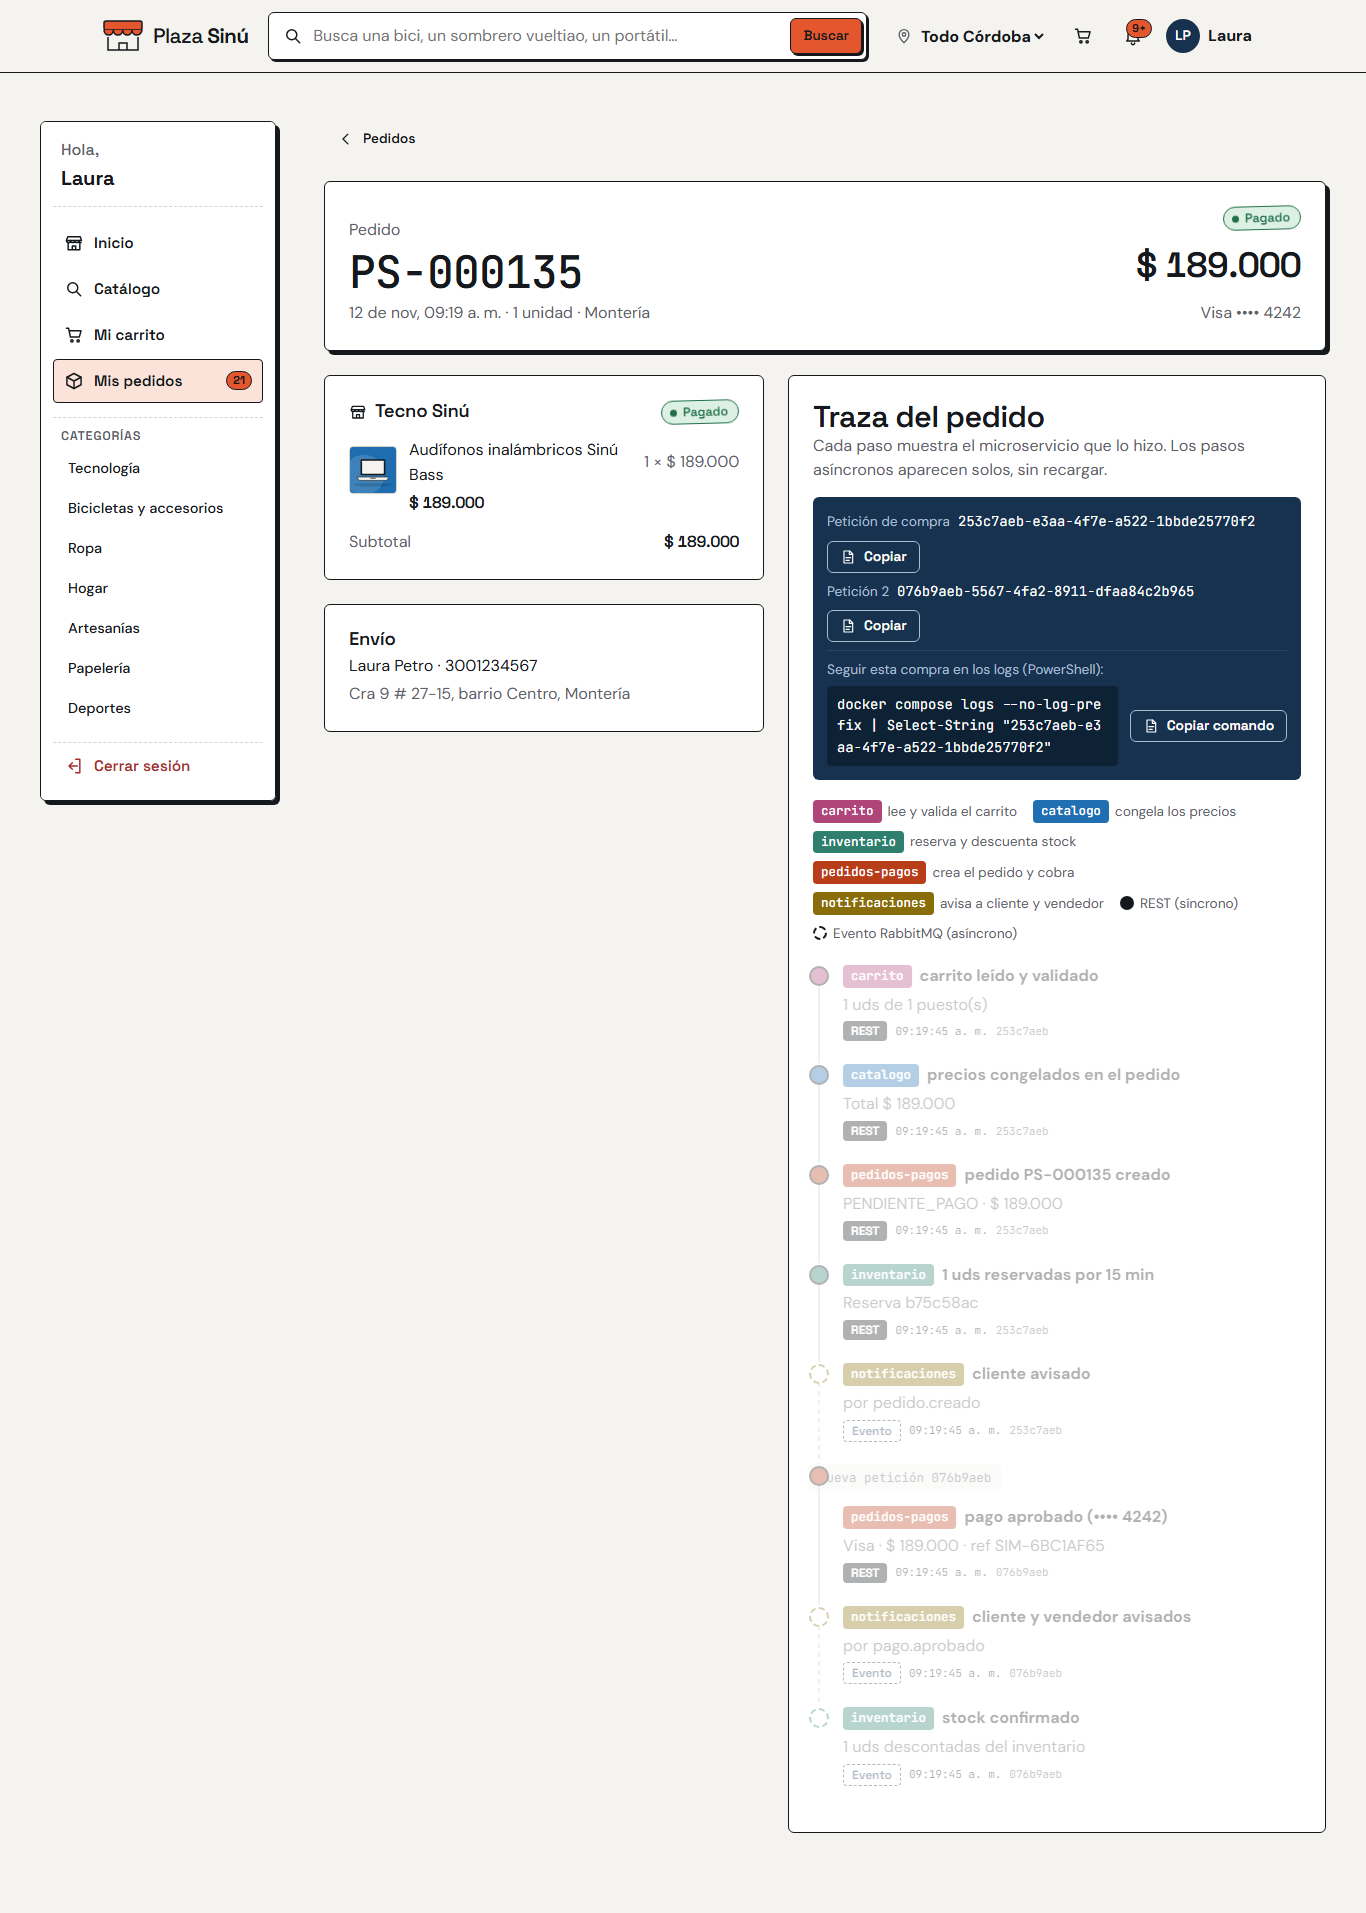
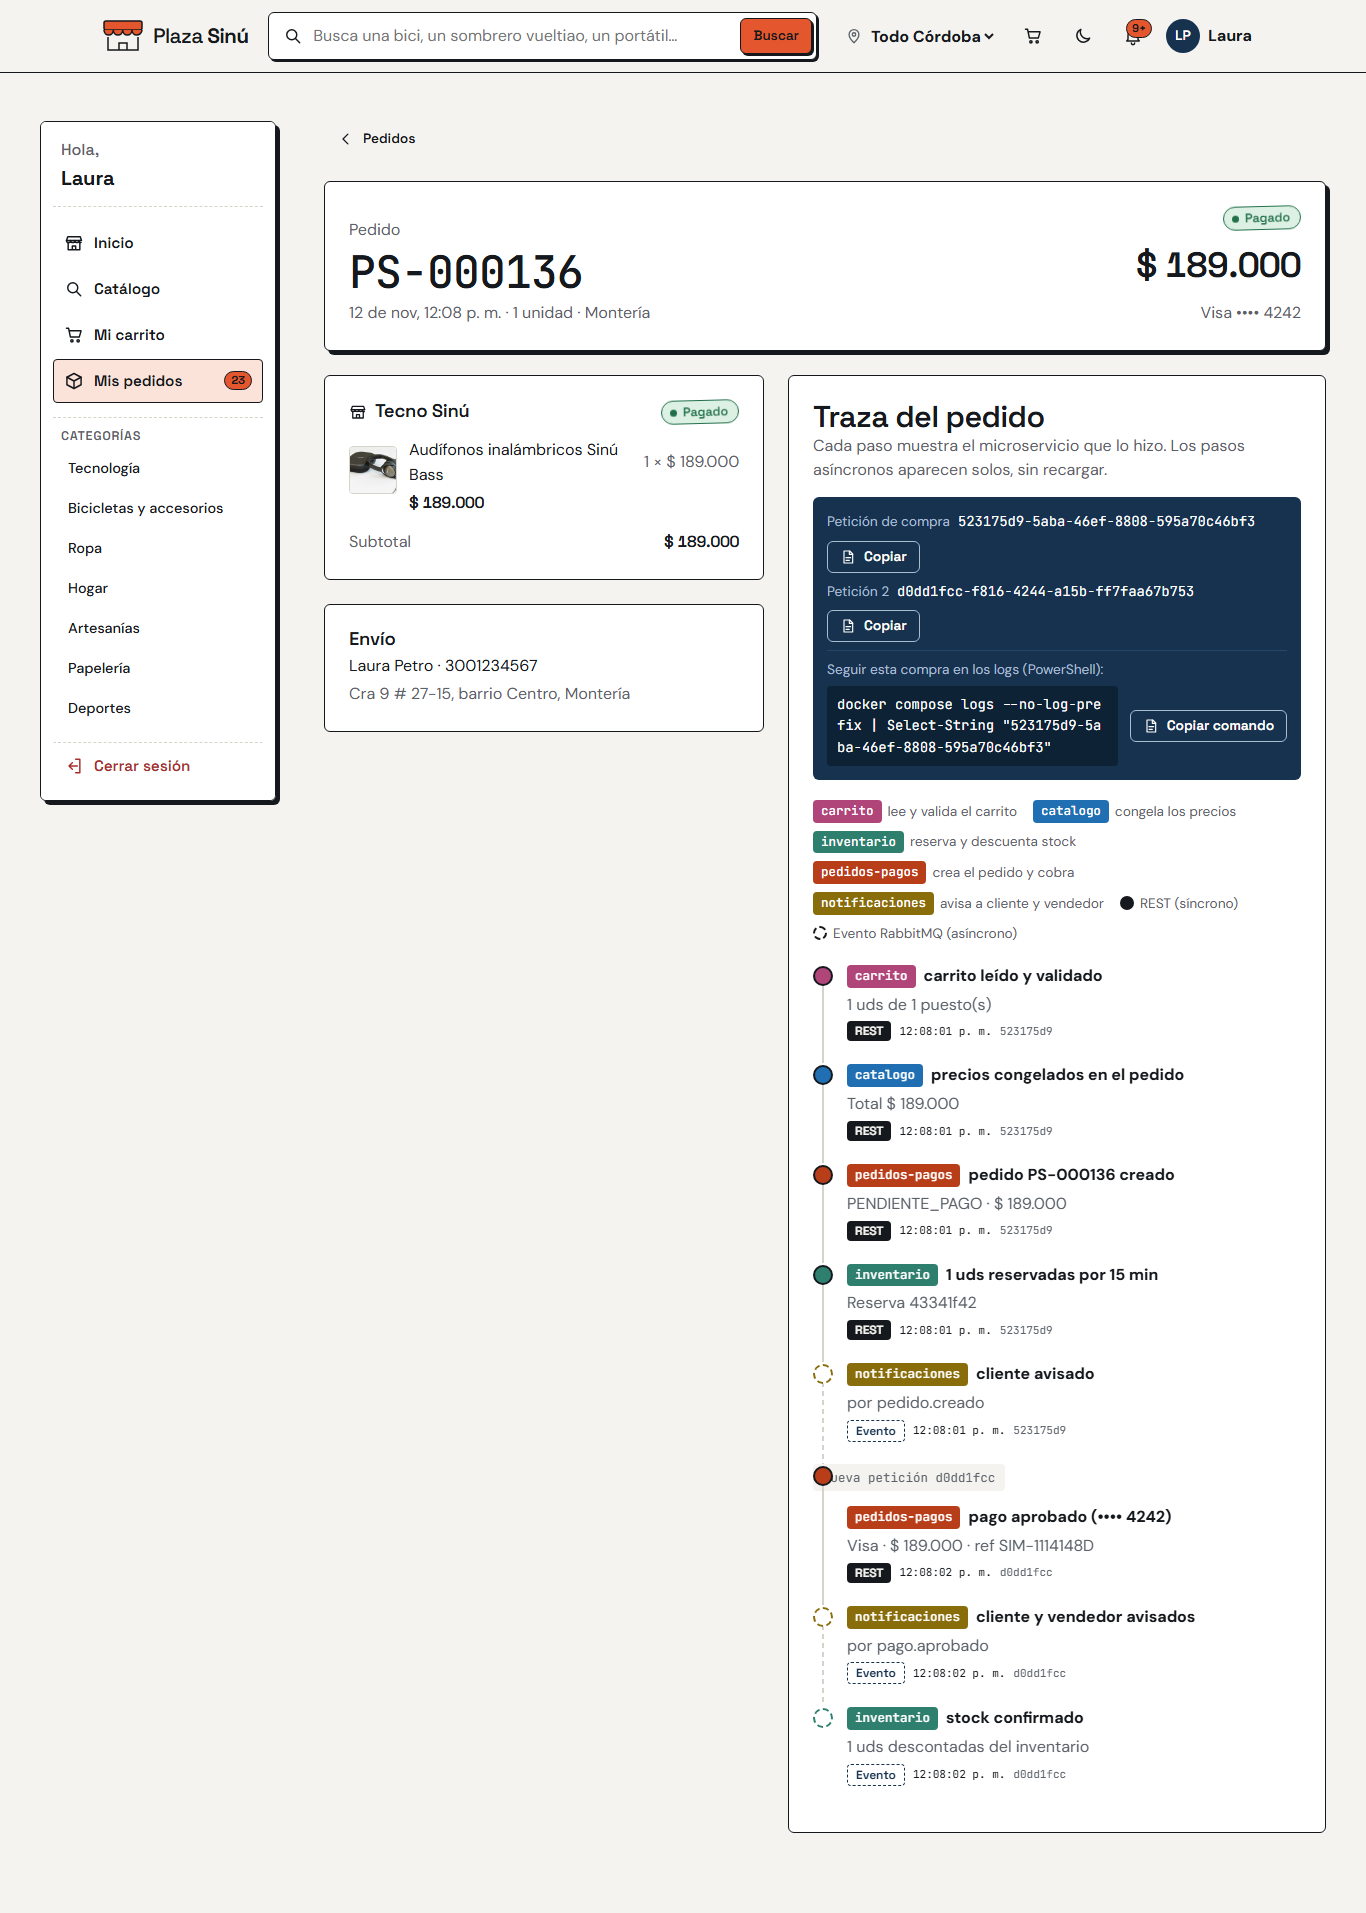
docs: evidencias, manual, plan de pruebas y matriz con registro en 3 pasos, modo oscuro y fotos

diff --git a/docs/pruebas/plan-de-pruebas.md b/docs/pruebas/plan-de-pruebas.md
@@ -1,6 +1,6 @@
 # Plan de pruebas — Plaza Sinú
 
-Última ejecución completa: **12/11/2026**, con la solución levantada desde cero (`docker compose down -v` y `docker compose up --build`, 17 contenedores `healthy`).
+Última ejecución completa: **12/11/2026** (actualizada con el registro en 3 pasos, el modo oscuro y las fotos de productos), con la solución levantada desde cero (`docker compose down -v` y `docker compose up --build`, 17 contenedores `healthy`).
 
 ## 1. Objetivo
 
@@ -76,14 +76,14 @@ docker stop puente-inventario
 | Servicio | Pruebas | Resultado | Cobertura de líneas |
 |---|---|---|---|
 | gateway | 7 | 7/7 ✅ | 53,3 % |
-| usuarios | 15 | 15/15 ✅ | 75,7 % |
+| usuarios | 17 | 17/17 ✅ | 76,7 % |
 | vendedores | 14 | 14/14 ✅ | 90,4 % |
-| catalogo | 23 | 23/23 ✅ | 85,2 % |
+| catalogo | 24 | 24/24 ✅ | 85,8 % |
 | inventario | 18 | 18/18 ✅ (incluye concurrencia con Postgres real) | 64,0 % |
 | carrito | 19 | 19/19 ✅ | 86,3 % |
 | pedidos-pagos | 28 | 28/28 ✅ | 85,5 % |
 | notificaciones | 20 | 20/20 ✅ | 74,3 % |
-| **Total** | **144** | **144/144 ✅** | |
+| **Total** | **147** | **147/147 ✅** | |
 
 La cobertura del gateway es más baja porque el proxy hacia los servicios y el monitor de RabbitMQ se prueban de punta a punta en el E2E, no con dobles.
 
@@ -93,7 +93,7 @@ La cobertura del gateway es más baja porque el proxy hacia los servicios y el m
 |---|---|---|
 | E2E del flujo obligatorio | **24/24 ✅** | [`resultados-e2e.md`](resultados-e2e.md) |
 | Resiliencia | **11/11 ✅** | [`resultados-resiliencia.md`](resultados-resiliencia.md) |
-| UI con Playwright | **1/1 ✅** (9 pasos) | [`docs/evidencias/`](../evidencias/) |
+| UI con Playwright | **1/1 ✅** (11 pasos, 29 capturas) | [`docs/evidencias/`](../evidencias/) |
 
 ## 7. Tabla de casos
 
@@ -140,3 +140,8 @@ La cobertura del gateway es más baja porque el proxy hacia los servicios y el m
 | DOC-01 | Swagger agregado del gateway | gateway | `/docs` con los 7 servicios | ✅ | [17](../evidencias/17-swagger-gateway.png) |
 | MQ-01 | Colas durables con DLQ | RabbitMQ | 5 colas + 5 DLQ | ✅ | [18](../evidencias/18-rabbitmq-colas.png) |
 | DOC-02 | 17 contenedores sanos | Docker | Todos `healthy` | ✅ | [docker-ps.txt](../evidencias/docker-ps.txt) |
+| UI-05 | Registro en 3 pasos con validación por paso | web, usuarios | Correo, contraseña, datos personales y dirección; 409 si el correo ya existe | ✅ | [23](../evidencias/23-registro-paso1-cuenta.png) · [24](../evidencias/24-registro-paso2-datos.png) · [25](../evidencias/25-registro-paso3-resumen.png) · [12](../evidencias/12-error-409-correo-registrado.png) |
+| UI-06 | Modo oscuro desde la barra superior | web | Cambia el tema y lo recuerda | ✅ | [26](../evidencias/26-modo-oscuro-catalogo.png) · [29](../evidencias/29-modo-oscuro-mi-puesto.png) |
+| UI-07 | Fotos reales de productos | catalogo, web | La foto se sirve por `GET /productos/:id/foto.jpg` | ✅ | [27](../evidencias/27-catalogo-fotos-artesanias.png) · [28](../evidencias/28-producto-foto-real.png) |
+| API-01 | Registro con documento, nacimiento y dirección; menor de edad → 422 | usuarios | 201 con datos guardados / 422 | ✅ | `servicios/usuarios/tests/api.test.js` |
+| API-02 | Foto de producto; id inválido o sin foto → 404 | catalogo | 200 `image/jpeg` / 404 | ✅ | `servicios/catalogo/tests/api.test.js` |

diff --git a/docs/manual-instalacion-usuario.md b/docs/manual-instalacion-usuario.md
@@ -65,6 +65,20 @@ La aplicación tiene tres zonas:
 
 ### 2.1 Cliente
 
+#### Crear una cuenta
+
+En **Crea tu cuenta** el registro va en tres pasos, con una barra de progreso:
+
+1. **Tu cuenta:** elige *Quiero comprar* o *Quiero vender*, escribe tu correo y una contraseña. Un medidor muestra qué tan segura es, y debes repetirla.
+2. **Tus datos:** nombres, apellidos, tipo y número de documento, fecha de nacimiento (debes ser mayor de edad) y celular.
+3. **Dónde estás:** ciudad y dirección de entrega (o de tu negocio, si vendes). Revisa el resumen, acepta los términos y pulsa **Crear mi cuenta**.
+
+Cada paso revisa los datos antes de seguir y marca el campo que falta. Si el correo ya existe, vuelve al primer paso y lo señala.
+
+![Registro, paso 1](evidencias/23-registro-paso1-cuenta.png)
+![Registro, paso 2](evidencias/24-registro-paso2-datos.png)
+![Registro, paso 3](evidencias/25-registro-paso3-resumen.png)
+
 #### Iniciar sesión
 
 En **Entrar** escribe tu correo y contraseña. Si te equivocas de clave, la aplicación lo dice sin borrar el formulario.
@@ -112,7 +126,7 @@ La campana de la barra superior se actualiza **en vivo**: pedido recibido, pago 
 
 #### Solicitar un puesto
 
-1. En **Crea tu cuenta** elige **Vender en mi puesto**.
+1. En **Crea tu cuenta** elige **Quiero vender** en el primer paso.
 2. Entra a **Mi Puesto**: aparece el formulario **Abre tu puesto en Plaza Sinú**: nombre del puesto, qué vendes, categoría principal, ciudad, NIT y teléfono (opcionales) y color del toldo, con una vista previa del puesto.
 3. Pulsa **Enviar solicitud**. El puesto queda **En revisión** hasta que el administrador lo apruebe. Puedes probar este estado con `pendiente@plazasinu.co`.
 
@@ -160,11 +174,23 @@ Los botones **Swagger** y **RabbitMQ** de la cabecera abren la documentación de
 ![Métricas](evidencias/15-metricas.png)
 ![Vendedores](evidencias/16-admin-vendedores.png)
 
-### 2.4 Modo sustentación
+### 2.4 Modo oscuro
+
+El botón de luna de la barra superior cambia toda la aplicación a colores oscuros, y el de sol la devuelve a modo claro. La elección se recuerda en ese navegador. Si nunca se ha tocado, la aplicación sigue el modo del computador o del celular.
+
+![Modo oscuro](evidencias/26-modo-oscuro-catalogo.png)
+
+### 2.5 Fotos de productos
+
+Algunos productos de demostración tienen fotos reales (sombreros vueltiaos, mochila, hamacas, bicicletas, balón, tenis, entre otros); los demás usan una ilustración. Los créditos de cada foto están en [creditos-imagenes.md](creditos-imagenes.md).
+
+![Fotos de artesanías](evidencias/27-catalogo-fotos-artesanias.png)
+
+### 2.6 Modo sustentación
 
 Abre cualquier página con `?demo=1` (o entra como admin) y aparece un panel flotante con los 7 pasos del flujo obligatorio. Cada paso se marca solo cuando el gateway ve ocurrir el evento o la petición correspondiente.
 
-### 2.5 Mensajes de error
+### 2.7 Mensajes de error
 
 | Mensaje | Qué significa | Qué hacer |
 |---|---|---|

diff --git a/docs/matriz-cumplimiento.md b/docs/matriz-cumplimiento.md
@@ -19,7 +19,7 @@ Cada requisito técnico mínimo (sección 3 del enunciado), el flujo obligatorio
 | 9 | Dockerizar y entregar docker-compose | ✅ | Un Dockerfile multi-etapa por servicio (`node:22-alpine`, usuario no root, healthcheck). Un `docker compose up --build` levanta los 17 contenedores | `*/Dockerfile` · [docker-compose.yaml](../docker-compose.yaml) · [docker-ps.txt](evidencias/docker-ps.txt) |
 | 10 | Documentar las APIs con Swagger/OpenAPI | ✅ | OpenAPI 3 por servicio; el gateway los agrega en `http://localhost:8080/docs` con selector de servicio | `servicios/*/openapi.yaml` · [`gateway/src/docs.js`](../gateway/src/docs.js) · [captura](evidencias/17-swagger-gateway.png) |
 | 11 | Logs y monitoreo básico | ✅ | Logs JSON (pino) con `servicio`, `correlationId` y `usuarioId`. `/salud` y `/salud/listo` en cada servicio, salud agregada en el gateway, Mapa de servicios y Radar de eventos en vivo (ADR-13) | [`compartido/src/logger.js`](../compartido/src/logger.js) · [`gateway/src/monitor.js`](../gateway/src/monitor.js) · [Mapa](evidencias/13-mapa-servicios.png) · [Traza](evidencias/08-traza-pedido.png) |
-| 12 | Pruebas de los servicios y resultados documentados | ✅ | 144 pruebas unitarias y de API, E2E 24/24, resiliencia 11/11, concurrencia con Postgres real y UI con Playwright | [plan-de-pruebas.md](pruebas/plan-de-pruebas.md) · [resultados-e2e.md](pruebas/resultados-e2e.md) · [resultados-resiliencia.md](pruebas/resultados-resiliencia.md) |
+| 12 | Pruebas de los servicios y resultados documentados | ✅ | 147 pruebas unitarias y de API, E2E 24/24, resiliencia 11/11, concurrencia con Postgres real y UI con Playwright | [plan-de-pruebas.md](pruebas/plan-de-pruebas.md) · [resultados-e2e.md](pruebas/resultados-e2e.md) · [resultados-resiliencia.md](pruebas/resultados-resiliencia.md) |
 | 13 | Git/GitHub para control de versiones | ✅ | Repositorio con historial de commits por tema (`tipo(alcance): descripción`) | `git log` · [CONTRIBUTING.md](../CONTRIBUTING.md) |
 | 14 | Diagramas de arquitectura y de comunicación | ✅ | Arquitectura general, comunicación (REST y eventos) y dos diagramas de secuencia, en Mermaid con PNG y SVG | [arquitectura/](arquitectura/) |
 | 15 | Demostración funcional de un flujo completo | ✅ | Flujo obligatorio en vivo con Modo sustentación (`?demo=1`), traza del pedido y notificación en tiempo real. Demo en línea: https://plaza-sinu.vercel.app | [guion.md](sustentacion/guion.md) · [capturas 01–09](evidencias/) · prueba de UI |

diff --git a/README.md b/README.md
@@ -130,11 +130,11 @@ docker compose logs --no-log-prefix | Select-String "<correlationId>"
 
 | Comando | Qué corre | Último resultado |
 |---|---|---|
-| `npm install` y luego `npm test` | Jest + Supertest en los 8 paquetes | **144/144** |
+| `npm install` y luego `npm test` | Jest + Supertest en los 8 paquetes | **147/147** |
 | `npm run e2e` | Flujo obligatorio completo contra Docker | **24/24** |
 | `npm run resiliencia` | Servicios caídos, concurrencia y tokens | **11/11** |
 | `npx playwright install chromium` y luego `npm run ui` | Flujo obligatorio en el navegador | **1/1** |
-| `npm run evidencias` | La prueba de UI más las capturas y `docker-ps.txt` | 18 capturas |
+| `npm run evidencias` | La prueba de UI más las capturas y `docker-ps.txt` | 29 capturas |
 
 Detalle en el [plan de pruebas](docs/pruebas/plan-de-pruebas.md).
 

diff --git a/docs/sustentacion/guion.md b/docs/sustentacion/guion.md
@@ -109,7 +109,7 @@ Mostrar `docs/pruebas/plan-de-pruebas.md`. Si hay tiempo:
 cd servicios/inventario; npm test; cd ../..
 ```
 
-- 144 pruebas unitarias y de API, E2E 24/24, resiliencia 11/11, concurrencia con Postgres real y una prueba de UI con Playwright.
+- 147 pruebas unitarias y de API, E2E 24/24, resiliencia 11/11, concurrencia con Postgres real y una prueba de UI con Playwright.
 - Resiliencia: con notificaciones caído se sigue vendiendo y los mensajes esperan en la cola; con inventario caído el checkout responde 503 y no queda nada a medias.
 
 ## 10. Demostración — David maneja, Miguel narra (3 min)
